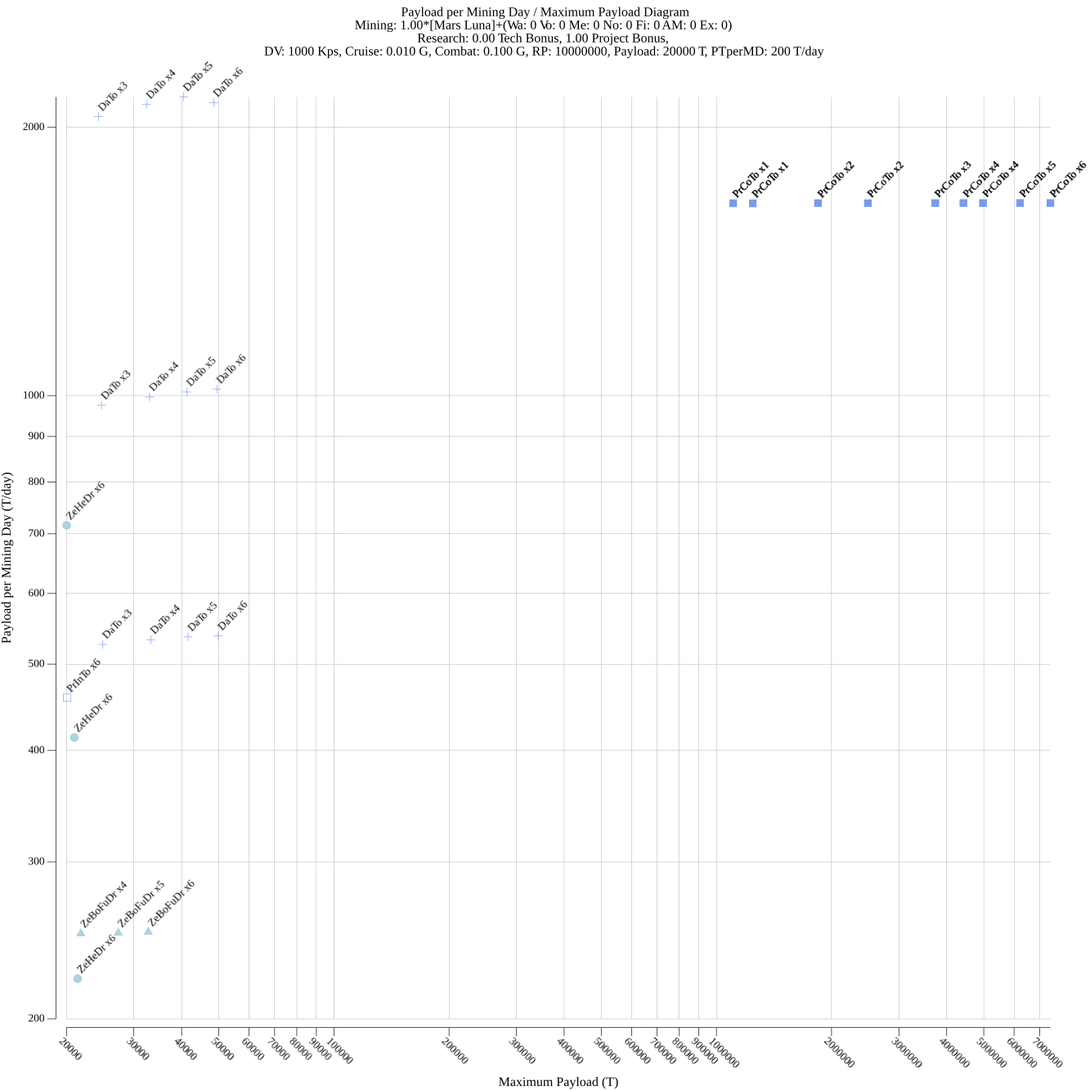
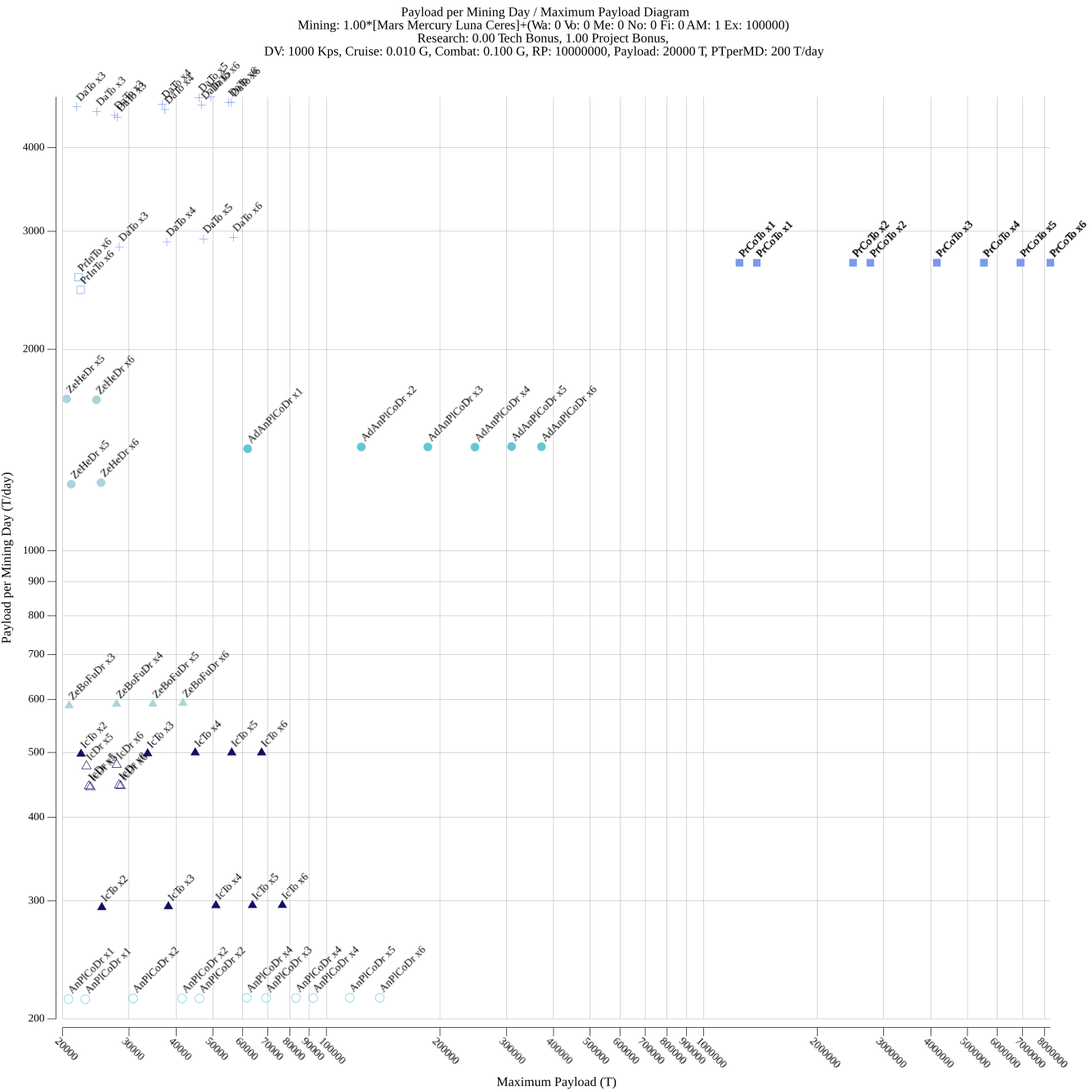
Update readme and example plots.

diff --git a/README.md b/README.md
@@ -101,127 +101,157 @@ from templates alone. This is mostly about mining amounts (need to calcuate `Min
 
 The end result looks like this:
 ```
-$ drive_plot -t /mnt/c/Program\ Files\ \(x86\)/Steam/steamapps/common/Terra\ Invicta/TerraInvicta_Data/StreamingAssets/Templates/ -c examples/drive_plot/interceptor.json --dv 10 --coa 4 --rp 120000 --log -o interceptor.png
-2023/09/01 16:22:39 init started
-2023/09/01 16:22:39 mining amount: Wa: 527 Vo: 333 Me: 433 No: 29 Fi: 35 AM: 0 Ex: 0
-2023/09/01 16:22:39 simulation started
-2023/09/01 16:22:40 AdPuDr x3 CoSoCoFiRe V NaFi - NeSp: Pl 400 T, PTpMD 201 T/day, DV 12 Kps, CrA 0.079 G, CoA 3.152 G
-2023/09/01 16:22:40 AdPuDr x3 CoSoCoFiRe V TiDr - -: Pl 281 T, PTpMD 228 T/day, DV 12 Kps, CrA 0.085 G, CoA 3.385 G
-2023/09/01 16:22:40 AdPuDr x4 CoSoCoFiRe V TiDr - -: Pl 409 T, PTpMD 225 T/day, DV 12 Kps, CrA 0.079 G, CoA 3.144 G
-2023/09/01 16:22:40 AdPuDr x4 CoSoCoFiRe V TiDr SlHyTa -: Pl 399 T, PTpMD 275 T/day, DV 13 Kps, CrA 0.088 G, CoA 3.520 G
-2023/09/01 16:22:40 AdPuDr x5 CoSoCoFiRe V TiDr SlHyTa -: Pl 526 T, PTpMD 291 T/day, DV 11 Kps, CrA 0.090 G, CoA 3.607 G
-2023/09/01 16:22:40 AdPuDr x6 CoSoCoFiRe V TiDr - -: Pl 563 T, PTpMD 235 T/day, DV 12 Kps, CrA 0.085 G, CoA 3.385 G
-2023/09/01 16:22:40 AdPuDr x6 CoSoCoFiRe V TiDr LiHyCo -: Pl 558 T, PTpMD 259 T/day, DV 10 Kps, CrA 0.092 G, CoA 3.667 G
-2023/09/01 16:22:40 FiSpDr x2 MoCoFiRe III NaFi - -: Pl 400 T, PTpMD 324 T/day, DV 11 Kps, CrA 0.169 G, CoA 3.385 G
-2023/09/01 16:22:40 FiSpDr x2 MoCoFiRe III NaFi LiHyCo NeSp: Pl 544 T, PTpMD 286 T/day, DV 12 Kps, CrA 0.158 G, CoA 3.152 G
-2023/09/01 16:22:40 FiSpDr x3 MoCoFiRe III NaFi LiHyCo NeSp: Pl 793 T, PTpMD 319 T/day, DV 12 Kps, CrA 0.170 G, CoA 3.392 G
-2023/09/01 16:22:40 FiSpDr x3 MoCoFiRe III NaFi SlHyTa -: Pl 640 T, PTpMD 504 T/day, DV 11 Kps, CrA 0.178 G, CoA 3.568 G
-2023/09/01 16:22:40 FiSpDr x3 MoCoFiRe III TiDr SlHyTa -: Pl 640 T, PTpMD 495 T/day, DV 11 Kps, CrA 0.178 G, CoA 3.568 G
-2023/09/01 16:22:40 FiSpDr x4 MoCoFiRe III NaFi LiHyCo NeSp: Pl 1041 T, PTpMD 340 T/day, DV 11 Kps, CrA 0.176 G, CoA 3.526 G
-2023/09/01 16:22:40 FiSpDr x4 MoCoFiRe III NaFi SlHyTa -: Pl 792 T, PTpMD 429 T/day, DV 13 Kps, CrA 0.183 G, CoA 3.667 G
-2023/09/01 16:22:40 FiSpDr x4 MoCoFiRe III TiDr SlHyTa -: Pl 792 T, PTpMD 423 T/day, DV 13 Kps, CrA 0.183 G, CoA 3.667 G
-2023/09/01 16:22:40 FiSpDr x5 MoCoFiRe III NaFi LiHyCo NeSp: Pl 1289 T, PTpMD 354 T/day, DV 11 Kps, CrA 0.181 G, CoA 3.611 G
-2023/09/01 16:22:40 FiSpDr x5 MoCoFiRe III NaFi SlHyTa -: Pl 1044 T, PTpMD 565 T/day, DV 10 Kps, CrA 0.186 G, CoA 3.729 G
-2023/09/01 16:22:40 FiSpDr x5 MoCoFiRe III TiDr SlHyTa -: Pl 1044 T, PTpMD 558 T/day, DV 10 Kps, CrA 0.186 G, CoA 3.729 G
-2023/09/01 16:22:40 FiSpDr x6 MoCoFiRe III NaFi LiHyCo NeSp: Pl 1538 T, PTpMD 365 T/day, DV 11 Kps, CrA 0.184 G, CoA 3.671 G
-2023/09/01 16:22:40 FiSpDr x6 MoCoFiRe III NaFi SlHyTa -: Pl 1196 T, PTpMD 493 T/day, DV 11 Kps, CrA 0.189 G, CoA 3.772 G
-2023/09/01 16:22:40 FiSpDr x6 MoCoFiRe III TiDr SlHyTa -: Pl 1196 T, PTpMD 489 T/day, DV 11 Kps, CrA 0.189 G, CoA 3.772 G
-2023/09/01 16:22:40 PeDr x1 MoCoFiRe III NaFi - -: Pl 247 T, PTpMD 375 T/day, DV 11 Kps, CrA 0.200 G, CoA 4.000 G
-2023/09/01 16:22:40 PeDr x1 MoCoFiRe III NaFi - NeSp: Pl 342 T, PTpMD 203 T/day, DV 15 Kps, CrA 0.168 G, CoA 3.365 G
-2023/09/01 16:22:40 PeDr x2 MoCoFiRe III NaFi - NeSp: Pl 730 T, PTpMD 390 T/day, DV 11 Kps, CrA 0.183 G, CoA 3.655 G
-2023/09/01 16:22:40 PeDr x2 MoCoFiRe III NaFi LiHyCo -: Pl 590 T, PTpMD 465 T/day, DV 11 Kps, CrA 0.177 G, CoA 3.548 G
-2023/09/01 16:22:40 PeDr x2 MoCoFiRe III TiDr LiHyCo -: Pl 591 T, PTpMD 457 T/day, DV 11 Kps, CrA 0.177 G, CoA 3.548 G
-2023/09/01 16:22:40 PeDr x3 MoCoFiRe III NaFi - NeSp: Pl 1118 T, PTpMD 457 T/day, DV 10 Kps, CrA 0.188 G, CoA 3.763 G
-2023/09/01 16:22:40 PeDr x3 MoCoFiRe III NaFi SlHyTa -: Pl 936 T, PTpMD 507 T/day, DV 14 Kps, CrA 0.171 G, CoA 3.419 G
-2023/09/01 16:22:40 PeDr x3 MoCoFiRe III TiDr SlHyTa -: Pl 936 T, PTpMD 500 T/day, DV 14 Kps, CrA 0.171 G, CoA 3.419 G
-2023/09/01 16:22:40 PeDr x4 MoCoFiRe III NaFi - NeSp: Pl 1506 T, PTpMD 418 T/day, DV 11 Kps, CrA 0.183 G, CoA 3.655 G
-2023/09/01 16:22:40 PeDr x4 MoCoFiRe III NaFi LiHyCo NeSp: Pl 1499 T, PTpMD 490 T/day, DV 11 Kps, CrA 0.191 G, CoA 3.820 G
-2023/09/01 16:22:40 PeDr x4 MoCoFiRe III NaFi SlHyTa -: Pl 1187 T, PTpMD 642 T/day, DV 11 Kps, CrA 0.188 G, CoA 3.761 G
-2023/09/01 16:22:40 PeDr x4 MoCoFiRe III TiDr SlHyTa -: Pl 1187 T, PTpMD 634 T/day, DV 11 Kps, CrA 0.188 G, CoA 3.761 G
-2023/09/01 16:22:40 PeDr x5 MoCoFiRe III NaFi LiHyCo NeSp: Pl 1887 T, PTpMD 519 T/day, DV 10 Kps, CrA 0.193 G, CoA 3.855 G
-2023/09/01 16:22:40 PeDr x5 MoCoFiRe III NaFi SlHyTa -: Pl 1437 T, PTpMD 593 T/day, DV 12 Kps, CrA 0.190 G, CoA 3.806 G
-2023/09/01 16:22:40 PeDr x5 MoCoFiRe III TiDr SlHyTa -: Pl 1437 T, PTpMD 587 T/day, DV 12 Kps, CrA 0.190 G, CoA 3.806 G
-2023/09/01 16:22:40 PeDr x6 MoCoFiRe III AlFi SlHyTa -: Pl 1779 T, PTpMD 733 T/day, DV 10 Kps, CrA 0.192 G, CoA 3.837 G
-2023/09/01 16:22:40 PeDr x6 MoCoFiRe III NaFi LiHyCo NeSp: Pl 2275 T, PTpMD 540 T/day, DV 10 Kps, CrA 0.194 G, CoA 3.878 G
-2023/09/01 16:22:40 PeDr x6 MoCoFiRe III TiDr SlHyTa -: Pl 1788 T, PTpMD 730 T/day, DV 10 Kps, CrA 0.192 G, CoA 3.837 G
-2023/09/01 16:22:40 AdCaDr x3 GaCoFiRe VI NaFi LiHyCo -: Pl 298 T, PTpMD 234 T/day, DV 11 Kps, CrA 0.167 G, CoA 3.339 G
-2023/09/01 16:22:40 AdCaDr x4 GaCoFiRe III TiDr SlHyTa -: Pl 387 T, PTpMD 299 T/day, DV 11 Kps, CrA 0.174 G, CoA 3.483 G
-2023/09/01 16:22:40 AdCaDr x5 GaCoFiRe VI NaFi LiHyCo -: Pl 466 T, PTpMD 252 T/day, DV 10 Kps, CrA 0.179 G, CoA 3.575 G
-2023/09/01 16:22:40 AdCaDr x6 GaCoFiRe III TiDr SlHyTa -: Pl 536 T, PTpMD 286 T/day, DV 12 Kps, CrA 0.182 G, CoA 3.639 G
-2023/09/01 16:22:40 LiDr x3 GaCoFiRe III TiDr SlHyTa -: Pl 393 T, PTpMD 210 T/day, DV 12 Kps, CrA 0.152 G, CoA 3.031 G
-2023/09/01 16:22:40 LiDr x4 GaCoFiRe III TiDr SlHyTa -: Pl 461 T, PTpMD 247 T/day, DV 11 Kps, CrA 0.179 G, CoA 3.572 G
-2023/09/01 16:22:40 LiDr x5 GaCoFiRe III TiDr SlHyTa -: Pl 529 T, PTpMD 216 T/day, DV 12 Kps, CrA 0.182 G, CoA 3.650 G
-2023/09/01 16:22:40 LiDr x6 GaCoFiRe III TiDr SlHyTa -: Pl 697 T, PTpMD 230 T/day, DV 12 Kps, CrA 0.172 G, CoA 3.449 G
-2023/09/01 16:22:40 PhDr x2 GaCoFiRe VI NaFi LiHyCo -: Pl 272 T, PTpMD 214 T/day, DV 10 Kps, CrA 0.164 G, CoA 3.278 G
-2023/09/01 16:22:40 PhDr x3 GaCoFiRe III TiDr SlHyTa -: Pl 422 T, PTpMD 226 T/day, DV 13 Kps, CrA 0.155 G, CoA 3.092 G
-2023/09/01 16:22:40 PhDr x4 GaCoFiRe III TiDr SlHyTa -: Pl 500 T, PTpMD 267 T/day, DV 11 Kps, CrA 0.180 G, CoA 3.603 G
-2023/09/01 16:22:40 PhDr x5 GaCoFiRe III TiDr SlHyTa -: Pl 577 T, PTpMD 236 T/day, DV 12 Kps, CrA 0.184 G, CoA 3.676 G
-2023/09/01 16:22:40 PhDr x6 GaCoFiRe III TiDr SlHyTa -: Pl 755 T, PTpMD 249 T/day, DV 12 Kps, CrA 0.174 G, CoA 3.488 G
-2023/09/01 16:22:40 FiLa x1 GaCoFiRe VI NaFi LiHyCo -: Pl 2868 T, PTpMD 243 T/day, DV 11 Kps, CrA 0.196 G, CoA 3.930 G
-2023/09/01 16:22:40 FiLa x2 GaCoFiRe VI NaFi LiHyCo -: Pl 5741 T, PTpMD 245 T/day, DV 10 Kps, CrA 0.198 G, CoA 3.965 G
-2023/09/01 16:22:40 FiLa x3 GaCoFiRe VI NaFi LiHyCo -: Pl 8613 T, PTpMD 246 T/day, DV 10 Kps, CrA 0.199 G, CoA 3.976 G
-2023/09/01 16:22:40 FiLa x4 GaCoFiRe VI NaFi LiHyCo -: Pl 11486 T, PTpMD 246 T/day, DV 10 Kps, CrA 0.199 G, CoA 3.982 G
-2023/09/01 16:22:40 FiLa x5 GaCoFiRe VI NaFi LiHyCo -: Pl 14359 T, PTpMD 246 T/day, DV 10 Kps, CrA 0.199 G, CoA 3.986 G
-2023/09/01 16:22:40 FiLa x6 GaCoFiRe VI NaFi LiHyCo -: Pl 17232 T, PTpMD 247 T/day, DV 10 Kps, CrA 0.199 G, CoA 3.988 G
-2023/09/01 16:22:40 BuDr x6 GaCoFiRe VI NaFi - -: Pl 200 T, PTpMD 309 T/day, DV 25 Kps, CrA 0.200 G, CoA 4.000 G
-2023/09/01 16:22:40 FlDr x1 GaCoFiRe VI NaFi - -: Pl 1308 T, PTpMD 450 T/day, DV 11 Kps, CrA 0.189 G, CoA 3.788 G
-2023/09/01 16:22:40 FlDr x2 GaCoFiRe VI NaFi - -: Pl 2621 T, PTpMD 457 T/day, DV 11 Kps, CrA 0.189 G, CoA 3.788 G
-2023/09/01 16:22:40 FlDr x2 GaCoFiRe VI NaFi LiHyCo -: Pl 2614 T, PTpMD 502 T/day, DV 11 Kps, CrA 0.195 G, CoA 3.891 G
-2023/09/01 16:22:40 FlDr x3 GaCoFiRe VI NaFi LiHyCo -: Pl 3927 T, PTpMD 525 T/day, DV 10 Kps, CrA 0.196 G, CoA 3.927 G
-2023/09/01 16:22:40 FlDr x4 GaCoFiRe VI NaFi LiHyCo -: Pl 5239 T, PTpMD 538 T/day, DV 10 Kps, CrA 0.197 G, CoA 3.945 G
-2023/09/01 16:22:40 FlDr x5 GaCoFiRe VI NaFi LiHyCo -: Pl 6551 T, PTpMD 546 T/day, DV 10 Kps, CrA 0.198 G, CoA 3.956 G
-2023/09/01 16:22:40 FlDr x6 GaCoFiRe VI NaFi LiHyCo -: Pl 7864 T, PTpMD 551 T/day, DV 10 Kps, CrA 0.198 G, CoA 3.963 G
-2023/09/01 16:22:40 FiDr x1 GaCoFiRe VI NaFi - -: Pl 1998 T, PTpMD 687 T/day, DV 10 Kps, CrA 0.192 G, CoA 3.849 G
-2023/09/01 16:22:40 FiDr x2 GaCoFiRe VI NaFi LiHyCo -: Pl 3994 T, PTpMD 767 T/day, DV 10 Kps, CrA 0.196 G, CoA 3.923 G
-2023/09/01 16:22:40 FiDr x3 GaCoFiRe VI NaFi LiHyCo -: Pl 5996 T, PTpMD 802 T/day, DV 10 Kps, CrA 0.197 G, CoA 3.948 G
-2023/09/01 16:22:40 FiDr x4 GaCoFiRe VI NaFi LiHyCo -: Pl 7998 T, PTpMD 776 T/day, DV 10 Kps, CrA 0.196 G, CoA 3.923 G
-2023/09/01 16:22:40 FiDr x5 GaCoFiRe VI NaFi LiHyCo -: Pl 9900 T, PTpMD 788 T/day, DV 10 Kps, CrA 0.198 G, CoA 3.969 G
-2023/09/01 16:22:40 FiDr x6 GaCoFiRe VI NaFi LiHyCo -: Pl 11903 T, PTpMD 803 T/day, DV 10 Kps, CrA 0.199 G, CoA 3.974 G
-2023/09/01 16:22:40 drives total: 72
+$ drive_plot -t Templates -c interceptor.json --dv 10 --coa 4 --rp 120000 --log -o interceptor.png
+2023/09/02 11:50:51 init started
+2023/09/02 11:50:51 mining amount: Wa: 527 Vo: 333 Me: 433 No: 29 Fi: 35 AM: 0 Ex: 0
+2023/09/02 11:50:51 simulation started
+2023/09/02 11:50:51 AdPuDr x4 CoSoCoFiRe V TiDr - -: Pl 309 T, PTpMD 216 T/day, DV 10 Kps, CrA 0.100 G, CoA 4.000 G
+2023/09/02 11:50:51 AdPuDr x5 CoSoCoFiRe V TiDr SlHyTa -: Pl 426 T, PTpMD 235 T/day, DV 12 Kps, CrA 0.100 G, CoA 4.000 G
+2023/09/02 11:50:51 AdPuDr x6 CoSoCoFiRe V TiDr - -: Pl 463 T, PTpMD 216 T/day, DV 10 Kps, CrA 0.100 G, CoA 4.000 G
+2023/09/02 11:50:51 FiSpDr x2 MoCoFiRe III NaFi - -: Pl 300 T, PTpMD 243 T/day, DV 13 Kps, CrA 0.200 G, CoA 4.000 G
+2023/09/02 11:50:51 FiSpDr x2 MoCoFiRe III NaFi LiHyCo NeSp: Pl 444 T, PTpMD 241 T/day, DV 10 Kps, CrA 0.200 G, CoA 4.000 G
+2023/09/02 11:50:51 FiSpDr x2 MoCoFiRe III NaFi SlHyTa -: Pl 288 T, PTpMD 416 T/day, DV 11 Kps, CrA 0.244 G, CoA 4.000 G
+2023/09/02 11:50:51 FiSpDr x2 MoCoFiRe III TiDr SlHyTa -: Pl 288 T, PTpMD 403 T/day, DV 11 Kps, CrA 0.244 G, CoA 4.000 G
+2023/09/02 11:50:51 FiSpDr x3 MoCoFiRe III NaFi LiHyCo NeSp: Pl 693 T, PTpMD 363 T/day, DV 10 Kps, CrA 0.200 G, CoA 4.000 G
+2023/09/02 11:50:51 FiSpDr x3 MoCoFiRe III NaFi SlHyTa -: Pl 540 T, PTpMD 425 T/day, DV 12 Kps, CrA 0.200 G, CoA 4.000 G
+2023/09/02 11:50:51 FiSpDr x3 MoCoFiRe III TiDr SlHyTa -: Pl 540 T, PTpMD 418 T/day, DV 12 Kps, CrA 0.200 G, CoA 4.000 G
+2023/09/02 11:50:51 FiSpDr x4 MoCoFiRe III NaFi LiHyCo NeSp: Pl 941 T, PTpMD 379 T/day, DV 10 Kps, CrA 0.200 G, CoA 4.000 G
+2023/09/02 11:50:51 FiSpDr x5 MoCoFiRe III NaFi LiHyCo NeSp: Pl 1189 T, PTpMD 389 T/day, DV 10 Kps, CrA 0.200 G, CoA 4.000 G
+2023/09/02 11:50:51 FiSpDr x5 MoCoFiRe III NaFi SlHyTa -: Pl 944 T, PTpMD 511 T/day, DV 11 Kps, CrA 0.200 G, CoA 4.000 G
+2023/09/02 11:50:51 FiSpDr x5 MoCoFiRe III TiDr SlHyTa -: Pl 944 T, PTpMD 505 T/day, DV 11 Kps, CrA 0.200 G, CoA 4.000 G
+2023/09/02 11:50:51 FiSpDr x6 MoCoFiRe III NaFi LiHyCo NeSp: Pl 1438 T, PTpMD 395 T/day, DV 10 Kps, CrA 0.200 G, CoA 4.000 G
+2023/09/02 11:50:51 FiSpDr x6 MoCoFiRe III NaFi SlHyTa -: Pl 1096 T, PTpMD 452 T/day, DV 12 Kps, CrA 0.200 G, CoA 4.000 G
+2023/09/02 11:50:51 FiSpDr x6 MoCoFiRe III TiDr SlHyTa -: Pl 1096 T, PTpMD 448 T/day, DV 12 Kps, CrA 0.200 G, CoA 4.000 G
+2023/09/02 11:50:51 PeDr x1 MoCoFiRe III NaFi - -: Pl 247 T, PTpMD 375 T/day, DV 11 Kps, CrA 0.200 G, CoA 4.000 G
+2023/09/02 11:50:51 PeDr x2 MoCoFiRe III NaFi - -: Pl 497 T, PTpMD 402 T/day, DV 11 Kps, CrA 0.200 G, CoA 4.000 G
+2023/09/02 11:50:51 PeDr x2 MoCoFiRe III NaFi - NeSp: Pl 630 T, PTpMD 337 T/day, DV 13 Kps, CrA 0.200 G, CoA 4.000 G
+2023/09/02 11:50:51 PeDr x3 MoCoFiRe III AlFi SlHyTa -: Pl 827 T, PTpMD 651 T/day, DV 11 Kps, CrA 0.200 G, CoA 4.000 G
+2023/09/02 11:50:51 PeDr x3 MoCoFiRe III NaFi - NeSp: Pl 1018 T, PTpMD 416 T/day, DV 11 Kps, CrA 0.200 G, CoA 4.000 G
+2023/09/02 11:50:51 PeDr x3 MoCoFiRe III TiDr SlHyTa -: Pl 836 T, PTpMD 646 T/day, DV 11 Kps, CrA 0.200 G, CoA 4.000 G
+2023/09/02 11:50:51 PeDr x4 MoCoFiRe III NaFi - NeSp: Pl 1406 T, PTpMD 465 T/day, DV 10 Kps, CrA 0.200 G, CoA 4.000 G
+2023/09/02 11:50:51 PeDr x4 MoCoFiRe III NaFi SlHyTa -: Pl 1087 T, PTpMD 588 T/day, DV 12 Kps, CrA 0.200 G, CoA 4.000 G
+2023/09/02 11:50:51 PeDr x4 MoCoFiRe III TiDr SlHyTa -: Pl 1087 T, PTpMD 581 T/day, DV 12 Kps, CrA 0.200 G, CoA 4.000 G
+2023/09/02 11:50:51 PeDr x5 MoCoFiRe III AlFi SlHyTa -: Pl 1328 T, PTpMD 719 T/day, DV 10 Kps, CrA 0.211 G, CoA 4.000 G
+2023/09/02 11:50:51 PeDr x5 MoCoFiRe III NaFi LiHyCo NeSp: Pl 1787 T, PTpMD 491 T/day, DV 11 Kps, CrA 0.200 G, CoA 4.000 G
+2023/09/02 11:50:51 PeDr x5 MoCoFiRe III TiDr SlHyTa -: Pl 1337 T, PTpMD 715 T/day, DV 10 Kps, CrA 0.211 G, CoA 4.000 G
+2023/09/02 11:50:51 PeDr x6 MoCoFiRe III AlFi SlHyTa -: Pl 1679 T, PTpMD 692 T/day, DV 11 Kps, CrA 0.200 G, CoA 4.000 G
+2023/09/02 11:50:51 PeDr x6 MoCoFiRe III NaFi LiHyCo NeSp: Pl 2175 T, PTpMD 516 T/day, DV 10 Kps, CrA 0.200 G, CoA 4.000 G
+2023/09/02 11:50:51 PeDr x6 MoCoFiRe III TiDr SlHyTa -: Pl 1688 T, PTpMD 689 T/day, DV 11 Kps, CrA 0.200 G, CoA 4.000 G
+2023/09/02 11:50:51 AdCaDr x4 GaCoFiRe III TiDr SlHyTa -: Pl 287 T, PTpMD 222 T/day, DV 13 Kps, CrA 0.200 G, CoA 4.000 G
+2023/09/02 11:50:51 AdCaDr x5 GaCoFiRe III TiDr SlHyTa -: Pl 311 T, PTpMD 220 T/day, DV 12 Kps, CrA 0.227 G, CoA 4.000 G
+2023/09/02 11:50:51 AdCaDr x5 GaCoFiRe VI NaFi - -: Pl 371 T, PTpMD 205 T/day, DV 11 Kps, CrA 0.200 G, CoA 4.000 G
+2023/09/02 11:50:51 AdCaDr x6 GaCoFiRe III TiDr SlHyTa -: Pl 436 T, PTpMD 233 T/day, DV 13 Kps, CrA 0.200 G, CoA 4.000 G
+2023/09/02 11:50:51 LiDr x3 GaCoFiRe III TiDr SlHyTa -: Pl 293 T, PTpMD 227 T/day, DV 11 Kps, CrA 0.200 G, CoA 4.000 G
+2023/09/02 11:50:51 LiDr x5 GaCoFiRe III TiDr SlHyTa -: Pl 429 T, PTpMD 229 T/day, DV 11 Kps, CrA 0.221 G, CoA 4.000 G
+2023/09/02 11:50:51 LiDr x6 GaCoFiRe III TiDr SlHyTa -: Pl 597 T, PTpMD 244 T/day, DV 11 Kps, CrA 0.200 G, CoA 4.000 G
+2023/09/02 11:50:51 PhDr x3 GaCoFiRe III TiDr SlHyTa -: Pl 322 T, PTpMD 249 T/day, DV 11 Kps, CrA 0.200 G, CoA 4.000 G
+2023/09/02 11:50:51 PhDr x4 GaCoFiRe III TiDr SlHyTa -: Pl 400 T, PTpMD 214 T/day, DV 12 Kps, CrA 0.200 G, CoA 4.000 G
+2023/09/02 11:50:51 PhDr x5 GaCoFiRe III TiDr SlHyTa -: Pl 477 T, PTpMD 255 T/day, DV 10 Kps, CrA 0.219 G, CoA 4.000 G
+2023/09/02 11:50:51 PhDr x6 GaCoFiRe III TiDr SlHyTa -: Pl 655 T, PTpMD 267 T/day, DV 11 Kps, CrA 0.200 G, CoA 4.000 G
+2023/09/02 11:50:51 FiLa x1 GaCoFiRe VI NaFi LiHyCo -: Pl 2768 T, PTpMD 234 T/day, DV 10 Kps, CrA 0.204 G, CoA 4.000 G
+2023/09/02 11:50:51 FiLa x2 GaCoFiRe VI NaFi LiHyCo -: Pl 5641 T, PTpMD 241 T/day, DV 10 Kps, CrA 0.202 G, CoA 4.000 G
+2023/09/02 11:50:51 FiLa x3 GaCoFiRe VI NaFi LiHyCo -: Pl 8513 T, PTpMD 243 T/day, DV 10 Kps, CrA 0.200 G, CoA 4.000 G
+2023/09/02 11:50:51 FiLa x4 GaCoFiRe VI NaFi LiHyCo -: Pl 11386 T, PTpMD 244 T/day, DV 10 Kps, CrA 0.200 G, CoA 4.000 G
+2023/09/02 11:50:51 FiLa x5 GaCoFiRe VI NaFi LiHyCo -: Pl 14259 T, PTpMD 245 T/day, DV 10 Kps, CrA 0.200 G, CoA 4.000 G
+2023/09/02 11:50:51 FiLa x6 GaCoFiRe VI NaFi LiHyCo -: Pl 17132 T, PTpMD 245 T/day, DV 10 Kps, CrA 0.200 G, CoA 4.000 G
+2023/09/02 11:50:51 BuDr x6 GaCoFiRe VI NaFi - -: Pl 200 T, PTpMD 309 T/day, DV 25 Kps, CrA 0.200 G, CoA 4.000 G
+2023/09/02 11:50:51 FlDr x1 GaCoFiRe VI NaFi - -: Pl 1208 T, PTpMD 415 T/day, DV 12 Kps, CrA 0.200 G, CoA 4.000 G
+2023/09/02 11:50:51 FlDr x1 GaCoFiRe VI NaFi LiHyCo -: Pl 1202 T, PTpMD 505 T/day, DV 10 Kps, CrA 0.212 G, CoA 4.000 G
+2023/09/02 11:50:51 FlDr x2 GaCoFiRe VI NaFi - -: Pl 2521 T, PTpMD 487 T/day, DV 10 Kps, CrA 0.200 G, CoA 4.000 G
+2023/09/02 11:50:51 FlDr x2 GaCoFiRe VI NaFi LiHyCo -: Pl 2514 T, PTpMD 542 T/day, DV 10 Kps, CrA 0.206 G, CoA 4.000 G
+2023/09/02 11:50:51 FlDr x3 GaCoFiRe VI NaFi LiHyCo -: Pl 3827 T, PTpMD 512 T/day, DV 11 Kps, CrA 0.200 G, CoA 4.000 G
+2023/09/02 11:50:51 FlDr x4 GaCoFiRe VI NaFi LiHyCo -: Pl 5139 T, PTpMD 528 T/day, DV 10 Kps, CrA 0.200 G, CoA 4.000 G
+2023/09/02 11:50:51 FlDr x5 GaCoFiRe VI NaFi LiHyCo -: Pl 6451 T, PTpMD 538 T/day, DV 10 Kps, CrA 0.200 G, CoA 4.000 G
+2023/09/02 11:50:51 FlDr x6 GaCoFiRe VI NaFi LiHyCo -: Pl 7764 T, PTpMD 544 T/day, DV 10 Kps, CrA 0.200 G, CoA 4.000 G
+2023/09/02 11:50:51 FiDr x1 GaCoFiRe VI NaFi - -: Pl 1898 T, PTpMD 652 T/day, DV 11 Kps, CrA 0.200 G, CoA 4.000 G
+2023/09/02 11:50:51 FiDr x2 GaCoFiRe VI NaFi LiHyCo -: Pl 3894 T, PTpMD 748 T/day, DV 11 Kps, CrA 0.200 G, CoA 4.000 G
+2023/09/02 11:50:51 FiDr x3 GaCoFiRe VI NaFi LiHyCo -: Pl 5896 T, PTpMD 789 T/day, DV 10 Kps, CrA 0.200 G, CoA 4.000 G
+2023/09/02 11:50:51 FiDr x4 GaCoFiRe VI NaFi LiHyCo -: Pl 7898 T, PTpMD 811 T/day, DV 10 Kps, CrA 0.200 G, CoA 4.000 G
+2023/09/02 11:50:51 FiDr x5 GaCoFiRe VI NaFi LiHyCo -: Pl 9800 T, PTpMD 780 T/day, DV 10 Kps, CrA 0.200 G, CoA 4.000 G
+2023/09/02 11:50:51 FiDr x6 GaCoFiRe VI NaFi LiHyCo -: Pl 11803 T, PTpMD 796 T/day, DV 10 Kps, CrA 0.200 G, CoA 4.000 G
+2023/09/02 11:50:51 drives total: 64
 ```
 ![Alt text](examples/drive_plot/interceptor.png)
 
 ```
-$ drive_plot -t /mnt/c/Program\ Files\ \(x86\)/Steam/steamapps/common/Terra\ Invicta/TerraInvicta_Data/StreamingAssets/Templates/ -c examples/drive_plot/interceptor.json --dv 1000 --pl 20000 -coa 0.1 -cra 0.01 --log -o alpha_chad.png
-2023/09/01 16:23:13 init started
-2023/09/01 16:23:13 mining amount: Wa: 527 Vo: 333 Me: 433 No: 29 Fi: 35 AM: 0 Ex: 0
-2023/09/01 16:23:13 simulation started
-2023/09/01 16:23:13 ZeHeDr x6 FlStZ-Fu Reactor TiDr SlHyTa NeSp: Pl 20019 T, PTpMD 715 T/day, DV 1013 Kps, CrA 0.010 G, CoA 0.598 G
-2023/09/01 16:23:13 ZeHeDr x6 FlStZ-Fu Reactor LiSp SlHyTa NeSp: Pl 20966 T, PTpMD 414 T/day, DV 1013 Kps, CrA 0.010 G, CoA 0.598 G
-2023/09/01 16:23:13 ZeHeDr x6 FlStZ-Fu Reactor DuPl SlHyTa NeSp: Pl 21386 T, PTpMD 222 T/day, DV 1013 Kps, CrA 0.010 G, CoA 0.598 G
-2023/09/01 16:23:13 ZeBoFuDr x4 FlStZ-Fu Reactor DuPl SlHyTa NeSp: Pl 21802 T, PTpMD 249 T/day, DV 1003 Kps, CrA 0.010 G, CoA 0.598 G
-2023/09/01 16:23:13 ZeBoFuDr x5 FlStZ-Fu Reactor DuPl SlHyTa NeSp: Pl 27315 T, PTpMD 250 T/day, DV 1003 Kps, CrA 0.010 G, CoA 0.597 G
-2023/09/01 16:23:13 ZeBoFuDr x6 FlStZ-Fu Reactor DuPl SlHyTa NeSp: Pl 32728 T, PTpMD 250 T/day, DV 1002 Kps, CrA 0.010 G, CoA 0.599 G
-2023/09/01 16:23:13 DaTo x3 InCoFuRe VII TiDr SlHyTa NeSp: Pl 24244 T, PTpMD 2056 T/day, DV 1044 Kps, CrA 0.010 G, CoA 0.598 G
-2023/09/01 16:23:13 DaTo x3 InCoFuRe VII LiSp SlHyTa NeSp: Pl 24693 T, PTpMD 976 T/day, DV 1044 Kps, CrA 0.010 G, CoA 0.598 G
-2023/09/01 16:23:13 DaTo x3 InCoFuRe VII DuPl SlHyTa NeSp: Pl 24893 T, PTpMD 526 T/day, DV 1044 Kps, CrA 0.010 G, CoA 0.598 G
-2023/09/01 16:23:13 DaTo x4 InCoFuRe VII TiDr SlHyTa NeSp: Pl 32375 T, PTpMD 2122 T/day, DV 1018 Kps, CrA 0.010 G, CoA 0.598 G
-2023/09/01 16:23:13 DaTo x4 InCoFuRe VII LiSp SlHyTa NeSp: Pl 32974 T, PTpMD 997 T/day, DV 1018 Kps, CrA 0.010 G, CoA 0.598 G
-2023/09/01 16:23:13 DaTo x4 InCoFuRe VII DuPl SlHyTa NeSp: Pl 33241 T, PTpMD 532 T/day, DV 1018 Kps, CrA 0.010 G, CoA 0.598 G
-2023/09/01 16:23:13 DaTo x5 InCoFuRe VII TiDr SlHyTa NeSp: Pl 40507 T, PTpMD 2164 T/day, DV 1002 Kps, CrA 0.010 G, CoA 0.599 G
-2023/09/01 16:23:13 DaTo x5 InCoFuRe VII LiSp SlHyTa NeSp: Pl 41255 T, PTpMD 1010 T/day, DV 1002 Kps, CrA 0.010 G, CoA 0.599 G
-2023/09/01 16:23:13 DaTo x5 InCoFuRe VII DuPl SlHyTa NeSp: Pl 41588 T, PTpMD 536 T/day, DV 1002 Kps, CrA 0.010 G, CoA 0.599 G
-2023/09/01 16:23:13 DaTo x6 InCoFuRe VII TiDr SlHyTa NeSp: Pl 48538 T, PTpMD 2132 T/day, DV 1019 Kps, CrA 0.010 G, CoA 0.599 G
-2023/09/01 16:23:13 DaTo x6 InCoFuRe VII LiSp SlHyTa NeSp: Pl 49437 T, PTpMD 1017 T/day, DV 1019 Kps, CrA 0.010 G, CoA 0.599 G
-2023/09/01 16:23:13 DaTo x6 InCoFuRe VII DuPl SlHyTa NeSp: Pl 49836 T, PTpMD 538 T/day, DV 1019 Kps, CrA 0.010 G, CoA 0.599 G
-2023/09/01 16:23:13 PrInTo x6 InCoFuRe VII DuPl - NeSp: Pl 20074 T, PTpMD 458 T/day, DV 1014 Kps, CrA 0.010 G, CoA 0.597 G
-2023/09/01 16:23:13 PrCoTo x1 InCoFuRe VII NaFi - MuSp: Pl 1106191 T, PTpMD 1644 T/day, DV 1000 Kps, CrA 0.010 G, CoA 0.600 G
-2023/09/01 16:23:13 PrCoTo x1 InCoFuRe VII NaFi - NeSp: Pl 1244548 T, PTpMD 1644 T/day, DV 1001 Kps, CrA 0.010 G, CoA 0.600 G
-2023/09/01 16:23:13 PrCoTo x1 InCoFuRe VII DuPl - MuSp: Pl 1106196 T, PTpMD 1644 T/day, DV 1000 Kps, CrA 0.010 G, CoA 0.600 G
-2023/09/01 16:23:13 PrCoTo x1 InCoFuRe VII DuPl - NeSp: Pl 1244553 T, PTpMD 1644 T/day, DV 1001 Kps, CrA 0.010 G, CoA 0.600 G
-2023/09/01 16:23:13 PrCoTo x2 InCoFuRe VII NaFi - -: Pl 1843385 T, PTpMD 1644 T/day, DV 1000 Kps, CrA 0.010 G, CoA 0.600 G
-2023/09/01 16:23:13 PrCoTo x2 InCoFuRe VII NaFi - NeSp: Pl 2489145 T, PTpMD 1644 T/day, DV 1000 Kps, CrA 0.010 G, CoA 0.600 G
-2023/09/01 16:23:13 PrCoTo x2 InCoFuRe VII DuPl - -: Pl 1843389 T, PTpMD 1644 T/day, DV 1000 Kps, CrA 0.010 G, CoA 0.600 G
-2023/09/01 16:23:13 PrCoTo x2 InCoFuRe VII DuPl - NeSp: Pl 2489150 T, PTpMD 1644 T/day, DV 1000 Kps, CrA 0.010 G, CoA 0.600 G
-2023/09/01 16:23:13 PrCoTo x3 InCoFuRe VII NaFi - NeSp: Pl 3733741 T, PTpMD 1645 T/day, DV 1000 Kps, CrA 0.010 G, CoA 0.600 G
-2023/09/01 16:23:13 PrCoTo x3 InCoFuRe VII DuPl - NeSp: Pl 3733746 T, PTpMD 1645 T/day, DV 1000 Kps, CrA 0.010 G, CoA 0.600 G
-2023/09/01 16:23:13 PrCoTo x4 InCoFuRe VII NaFi - MuSp: Pl 4424808 T, PTpMD 1645 T/day, DV 1000 Kps, CrA 0.010 G, CoA 0.600 G
-2023/09/01 16:23:13 PrCoTo x4 InCoFuRe VII NaFi - NeSp: Pl 4978338 T, PTpMD 1645 T/day, DV 1000 Kps, CrA 0.010 G, CoA 0.600 G
-2023/09/01 16:23:13 PrCoTo x4 InCoFuRe VII DuPl - MuSp: Pl 4424813 T, PTpMD 1645 T/day, DV 1000 Kps, CrA 0.010 G, CoA 0.600 G
-2023/09/01 16:23:13 PrCoTo x4 InCoFuRe VII DuPl - NeSp: Pl 4978343 T, PTpMD 1645 T/day, DV 1000 Kps, CrA 0.010 G, CoA 0.600 G
-2023/09/01 16:23:13 PrCoTo x5 InCoFuRe VII NaFi - NeSp: Pl 6222934 T, PTpMD 1645 T/day, DV 1000 Kps, CrA 0.010 G, CoA 0.600 G
-2023/09/01 16:23:13 PrCoTo x5 InCoFuRe VII DuPl - NeSp: Pl 6222939 T, PTpMD 1645 T/day, DV 1000 Kps, CrA 0.010 G, CoA 0.600 G
-2023/09/01 16:23:13 PrCoTo x6 InCoFuRe VII NaFi - NeSp: Pl 7467531 T, PTpMD 1645 T/day, DV 1000 Kps, CrA 0.010 G, CoA 0.600 G
-2023/09/01 16:23:13 PrCoTo x6 InCoFuRe VII DuPl - NeSp: Pl 7467536 T, PTpMD 1645 T/day, DV 1000 Kps, CrA 0.010 G, CoA 0.600 G
+$ drive_plot -t Templates -c alpha_chad.json --dv 1000 --pl 20000 -coa 0.1 -cra 0.01 --log -o alpha_chad.png
+2023/09/02 11:52:17 init started
+2023/09/02 11:52:17 mining amount: Wa: 863 Vo: 485 Me: 864 No: 118 Fi: 41 AM: 1 Ex: 100000
+2023/09/02 11:52:17 simulation started
+2023/09/02 11:52:18 IcDr x5 HyCoFuRe III LiSp HyTr AnSp: Pl 23128 T, PTpMD 477 T/day, DV 1005 Kps, CrA 0.010 G, CoA 0.600 G
+2023/09/02 11:52:18 IcDr x5 HyCoFuRe III DuPl HyTr AnSp: Pl 23476 T, PTpMD 445 T/day, DV 1005 Kps, CrA 0.010 G, CoA 0.600 G
+2023/09/02 11:52:18 IcDr x5 HyCoFuRe III ExSp HyTr AnSp: Pl 23702 T, PTpMD 444 T/day, DV 1005 Kps, CrA 0.010 G, CoA 0.600 G
+2023/09/02 11:52:18 IcDr x6 HyCoFuRe III LiSp HyTr AnSp: Pl 27806 T, PTpMD 479 T/day, DV 1002 Kps, CrA 0.010 G, CoA 0.600 G
+2023/09/02 11:52:18 IcDr x6 HyCoFuRe III DuPl HyTr AnSp: Pl 28224 T, PTpMD 447 T/day, DV 1002 Kps, CrA 0.010 G, CoA 0.600 G
+2023/09/02 11:52:18 IcDr x6 HyCoFuRe III ExSp HyTr AnSp: Pl 28495 T, PTpMD 445 T/day, DV 1002 Kps, CrA 0.010 G, CoA 0.600 G
+2023/09/02 11:52:18 IcTo x2 HyCoFuRe III TiDr HyTr AnSp: Pl 22374 T, PTpMD 497 T/day, DV 1013 Kps, CrA 0.010 G, CoA 0.600 G
+2023/09/02 11:52:18 IcTo x2 HyCoFuRe III LiSp HyTr AnSp: Pl 25399 T, PTpMD 293 T/day, DV 1013 Kps, CrA 0.010 G, CoA 0.600 G
+2023/09/02 11:52:18 IcTo x3 HyCoFuRe III TiDr HyTr AnSp: Pl 33591 T, PTpMD 498 T/day, DV 1013 Kps, CrA 0.010 G, CoA 0.600 G
+2023/09/02 11:52:18 IcTo x3 HyCoFuRe III LiSp HyTr AnSp: Pl 38129 T, PTpMD 294 T/day, DV 1013 Kps, CrA 0.010 G, CoA 0.600 G
+2023/09/02 11:52:18 IcTo x4 HyCoFuRe III TiDr HyTr AnSp: Pl 44908 T, PTpMD 500 T/day, DV 1001 Kps, CrA 0.010 G, CoA 0.600 G
+2023/09/02 11:52:18 IcTo x4 HyCoFuRe III LiSp HyTr AnSp: Pl 50959 T, PTpMD 295 T/day, DV 1001 Kps, CrA 0.010 G, CoA 0.600 G
+2023/09/02 11:52:18 IcTo x5 HyCoFuRe III TiDr HyTr AnSp: Pl 56125 T, PTpMD 500 T/day, DV 1003 Kps, CrA 0.010 G, CoA 0.600 G
+2023/09/02 11:52:18 IcTo x5 HyCoFuRe III LiSp HyTr AnSp: Pl 63688 T, PTpMD 296 T/day, DV 1003 Kps, CrA 0.010 G, CoA 0.600 G
+2023/09/02 11:52:18 IcTo x6 HyCoFuRe III TiDr HyTr AnSp: Pl 67342 T, PTpMD 500 T/day, DV 1005 Kps, CrA 0.010 G, CoA 0.600 G
+2023/09/02 11:52:18 IcTo x6 HyCoFuRe III LiSp HyTr AnSp: Pl 76418 T, PTpMD 296 T/day, DV 1005 Kps, CrA 0.010 G, CoA 0.600 G
+2023/09/02 11:52:18 ZeHeDr x5 FlStZ-Fu Reactor LiSp HyTr AnSp: Pl 20494 T, PTpMD 1686 T/day, DV 1013 Kps, CrA 0.010 G, CoA 0.600 G
+2023/09/02 11:52:18 ZeHeDr x5 FlStZ-Fu Reactor ExSp HyTr AnSp: Pl 21072 T, PTpMD 1257 T/day, DV 1013 Kps, CrA 0.010 G, CoA 0.600 G
+2023/09/02 11:52:18 ZeHeDr x6 FlStZ-Fu Reactor LiSp HyTr AnSp: Pl 24584 T, PTpMD 1681 T/day, DV 1018 Kps, CrA 0.010 G, CoA 0.600 G
+2023/09/02 11:52:18 ZeHeDr x6 FlStZ-Fu Reactor ExSp HyTr AnSp: Pl 25278 T, PTpMD 1264 T/day, DV 1018 Kps, CrA 0.010 G, CoA 0.600 G
+2023/09/02 11:52:18 ZeBoFuDr x3 FlStZ-Fu Reactor ExSp HyTr AnSp: Pl 20808 T, PTpMD 587 T/day, DV 1005 Kps, CrA 0.010 G, CoA 0.600 G
+2023/09/02 11:52:18 ZeBoFuDr x4 FlStZ-Fu Reactor ExSp HyTr AnSp: Pl 27797 T, PTpMD 591 T/day, DV 1001 Kps, CrA 0.010 G, CoA 0.600 G
+2023/09/02 11:52:18 ZeBoFuDr x5 FlStZ-Fu Reactor ExSp HyTr AnSp: Pl 34686 T, PTpMD 591 T/day, DV 1002 Kps, CrA 0.010 G, CoA 0.601 G
+2023/09/02 11:52:18 ZeBoFuDr x6 FlStZ-Fu Reactor ExSp HyTr AnSp: Pl 41675 T, PTpMD 592 T/day, DV 1000 Kps, CrA 0.010 G, CoA 0.601 G
+2023/09/02 11:52:18 DaTo x3 InCoFuRe VII TiDr HyTr MuSp: Pl 21792 T, PTpMD 4604 T/day, DV 1011 Kps, CrA 0.010 G, CoA 0.600 G
+2023/09/02 11:52:18 DaTo x3 InCoFuRe VII TiDr HyTr NeSp: Pl 24634 T, PTpMD 4529 T/day, DV 1038 Kps, CrA 0.010 G, CoA 0.600 G
+2023/09/02 11:52:18 DaTo x3 InCoFuRe VII TiDr HyTr AnSp: Pl 27476 T, PTpMD 4472 T/day, DV 1059 Kps, CrA 0.010 G, CoA 0.600 G
+2023/09/02 11:52:18 DaTo x3 InCoFuRe VII LiSp HyTr AnSp: Pl 27926 T, PTpMD 4442 T/day, DV 1059 Kps, CrA 0.010 G, CoA 0.600 G
+2023/09/02 11:52:18 DaTo x3 InCoFuRe VII ExSp HyTr AnSp: Pl 28255 T, PTpMD 2843 T/day, DV 1059 Kps, CrA 0.010 G, CoA 0.600 G
+2023/09/02 11:52:18 DaTo x4 InCoFuRe VII TiDr HyTr AnSp: Pl 36722 T, PTpMD 4644 T/day, DV 1027 Kps, CrA 0.010 G, CoA 0.600 G
+2023/09/02 11:52:18 DaTo x4 InCoFuRe VII LiSp HyTr AnSp: Pl 37321 T, PTpMD 4560 T/day, DV 1027 Kps, CrA 0.010 G, CoA 0.600 G
+2023/09/02 11:52:18 DaTo x4 InCoFuRe VII ExSp HyTr AnSp: Pl 37760 T, PTpMD 2892 T/day, DV 1027 Kps, CrA 0.010 G, CoA 0.600 G
+2023/09/02 11:52:18 DaTo x5 InCoFuRe VII TiDr HyTr AnSp: Pl 45967 T, PTpMD 4753 T/day, DV 1008 Kps, CrA 0.010 G, CoA 0.600 G
+2023/09/02 11:52:18 DaTo x5 InCoFuRe VII LiSp HyTr AnSp: Pl 46716 T, PTpMD 4633 T/day, DV 1008 Kps, CrA 0.010 G, CoA 0.600 G
+2023/09/02 11:52:18 DaTo x5 InCoFuRe VII ExSp HyTr AnSp: Pl 47265 T, PTpMD 2923 T/day, DV 1008 Kps, CrA 0.010 G, CoA 0.600 G
+2023/09/02 11:52:18 DaTo x6 InCoFuRe VII TiDr HyTr NeSp: Pl 49428 T, PTpMD 4763 T/day, DV 1002 Kps, CrA 0.010 G, CoA 0.600 G
+2023/09/02 11:52:18 DaTo x6 InCoFuRe VII TiDr HyTr AnSp: Pl 55113 T, PTpMD 4675 T/day, DV 1027 Kps, CrA 0.010 G, CoA 0.600 G
+2023/09/02 11:52:18 DaTo x6 InCoFuRe VII LiSp HyTr AnSp: Pl 56011 T, PTpMD 4675 T/day, DV 1027 Kps, CrA 0.010 G, CoA 0.600 G
+2023/09/02 11:52:18 DaTo x6 InCoFuRe VII ExSp HyTr AnSp: Pl 56670 T, PTpMD 2938 T/day, DV 1027 Kps, CrA 0.010 G, CoA 0.600 G
+2023/09/02 11:52:18 PrInTo x6 InCoFuRe VII LiSp - AnSp: Pl 22013 T, PTpMD 2562 T/day, DV 1003 Kps, CrA 0.010 G, CoA 0.602 G
+2023/09/02 11:52:18 PrInTo x6 InCoFuRe VII ExSp - AnSp: Pl 22319 T, PTpMD 2453 T/day, DV 1003 Kps, CrA 0.010 G, CoA 0.602 G
+2023/09/02 11:52:18 PrCoTo x1 InCoFuRe VII NaFi - NeSp: Pl 1244448 T, PTpMD 2693 T/day, DV 1000 Kps, CrA 0.010 G, CoA 0.600 G
+2023/09/02 11:52:18 PrCoTo x1 InCoFuRe VII NaFi - AnSp: Pl 1382906 T, PTpMD 2692 T/day, DV 1000 Kps, CrA 0.010 G, CoA 0.600 G
+2023/09/02 11:52:18 PrCoTo x1 InCoFuRe VII ExSp - NeSp: Pl 1244454 T, PTpMD 2693 T/day, DV 1000 Kps, CrA 0.010 G, CoA 0.600 G
+2023/09/02 11:52:18 PrCoTo x1 InCoFuRe VII ExSp - AnSp: Pl 1382912 T, PTpMD 2692 T/day, DV 1000 Kps, CrA 0.010 G, CoA 0.600 G
+2023/09/02 11:52:18 PrCoTo x2 InCoFuRe VII NaFi - NeSp: Pl 2489045 T, PTpMD 2693 T/day, DV 1000 Kps, CrA 0.010 G, CoA 0.600 G
+2023/09/02 11:52:18 PrCoTo x2 InCoFuRe VII NaFi - AnSp: Pl 2765860 T, PTpMD 2693 T/day, DV 1000 Kps, CrA 0.010 G, CoA 0.600 G
+2023/09/02 11:52:18 PrCoTo x2 InCoFuRe VII ExSp - NeSp: Pl 2489051 T, PTpMD 2693 T/day, DV 1000 Kps, CrA 0.010 G, CoA 0.600 G
+2023/09/02 11:52:18 PrCoTo x2 InCoFuRe VII ExSp - AnSp: Pl 2765865 T, PTpMD 2693 T/day, DV 1000 Kps, CrA 0.010 G, CoA 0.600 G
+2023/09/02 11:52:18 PrCoTo x3 InCoFuRe VII NaFi - AnSp: Pl 4148914 T, PTpMD 2693 T/day, DV 1000 Kps, CrA 0.010 G, CoA 0.600 G
+2023/09/02 11:52:18 PrCoTo x3 InCoFuRe VII ExSp - AnSp: Pl 4148919 T, PTpMD 2693 T/day, DV 1000 Kps, CrA 0.010 G, CoA 0.600 G
+2023/09/02 11:52:18 PrCoTo x4 InCoFuRe VII NaFi - AnSp: Pl 5531868 T, PTpMD 2693 T/day, DV 1000 Kps, CrA 0.010 G, CoA 0.600 G
+2023/09/02 11:52:18 PrCoTo x4 InCoFuRe VII ExSp - AnSp: Pl 5531873 T, PTpMD 2693 T/day, DV 1000 Kps, CrA 0.010 G, CoA 0.600 G
+2023/09/02 11:52:18 PrCoTo x5 InCoFuRe VII NaFi - AnSp: Pl 6914921 T, PTpMD 2694 T/day, DV 1000 Kps, CrA 0.010 G, CoA 0.600 G
+2023/09/02 11:52:18 PrCoTo x5 InCoFuRe VII ExSp - AnSp: Pl 6914927 T, PTpMD 2694 T/day, DV 1000 Kps, CrA 0.010 G, CoA 0.600 G
+2023/09/02 11:52:18 PrCoTo x6 InCoFuRe VII NaFi - AnSp: Pl 8297875 T, PTpMD 2693 T/day, DV 1000 Kps, CrA 0.010 G, CoA 0.600 G
+2023/09/02 11:52:18 PrCoTo x6 InCoFuRe VII ExSp - AnSp: Pl 8297881 T, PTpMD 2693 T/day, DV 1000 Kps, CrA 0.010 G, CoA 0.600 G
+2023/09/02 11:52:18 AnPlCoDr x1 AnPlCoRe III ExSp HyTr NeSp: Pl 20713 T, PTpMD 214 T/day, DV 1001 Kps, CrA 0.010 G, CoA 0.600 G
+2023/09/02 11:52:18 AnPlCoDr x1 AnPlCoRe III ExSp HyTr AnSp: Pl 22967 T, PTpMD 214 T/day, DV 1001 Kps, CrA 0.010 G, CoA 0.601 G
+2023/09/02 11:52:18 AnPlCoDr x2 AnPlCoRe III ExSp HyTr -: Pl 30747 T, PTpMD 215 T/day, DV 1001 Kps, CrA 0.010 G, CoA 0.600 G
+2023/09/02 11:52:18 AnPlCoDr x2 AnPlCoRe III ExSp HyTr NeSp: Pl 41490 T, PTpMD 214 T/day, DV 1001 Kps, CrA 0.010 G, CoA 0.600 G
+2023/09/02 11:52:18 AnPlCoDr x2 AnPlCoRe III ExSp HyTr AnSp: Pl 46097 T, PTpMD 214 T/day, DV 1001 Kps, CrA 0.010 G, CoA 0.600 G
+2023/09/02 11:52:18 AnPlCoDr x3 AnPlCoRe III ExSp HyTr AnSp: Pl 69227 T, PTpMD 215 T/day, DV 1000 Kps, CrA 0.010 G, CoA 0.600 G
+2023/09/02 11:52:18 AnPlCoDr x4 AnPlCoRe III ExSp HyTr -: Pl 61517 T, PTpMD 215 T/day, DV 1000 Kps, CrA 0.010 G, CoA 0.600 G
+2023/09/02 11:52:18 AnPlCoDr x4 AnPlCoRe III ExSp HyTr NeSp: Pl 83042 T, PTpMD 215 T/day, DV 1000 Kps, CrA 0.010 G, CoA 0.600 G
+2023/09/02 11:52:18 AnPlCoDr x4 AnPlCoRe III ExSp HyTr AnSp: Pl 92256 T, PTpMD 215 T/day, DV 1000 Kps, CrA 0.010 G, CoA 0.600 G
+2023/09/02 11:52:18 AnPlCoDr x5 AnPlCoRe III ExSp HyTr AnSp: Pl 115386 T, PTpMD 215 T/day, DV 1000 Kps, CrA 0.010 G, CoA 0.600 G
+2023/09/02 11:52:18 AnPlCoDr x6 AnPlCoRe III ExSp HyTr AnSp: Pl 138516 T, PTpMD 215 T/day, DV 1000 Kps, CrA 0.010 G, CoA 0.600 G
+2023/09/02 11:52:18 AdAnPlCoDr x1 AnPlCoRe III ExSp HyTr AnSp: Pl 61839 T, PTpMD 1420 T/day, DV 1004 Kps, CrA 0.010 G, CoA 0.600 G
+2023/09/02 11:52:18 AdAnPlCoDr x2 AnPlCoRe III ExSp HyTr AnSp: Pl 123738 T, PTpMD 1429 T/day, DV 1000 Kps, CrA 0.010 G, CoA 0.600 G
+2023/09/02 11:52:18 AdAnPlCoDr x3 AnPlCoRe III ExSp HyTr AnSp: Pl 185736 T, PTpMD 1429 T/day, DV 1001 Kps, CrA 0.010 G, CoA 0.600 G
+2023/09/02 11:52:18 AdAnPlCoDr x4 AnPlCoRe III ExSp HyTr AnSp: Pl 247635 T, PTpMD 1429 T/day, DV 1002 Kps, CrA 0.010 G, CoA 0.600 G
+2023/09/02 11:52:18 AdAnPlCoDr x5 AnPlCoRe III ExSp HyTr AnSp: Pl 309634 T, PTpMD 1431 T/day, DV 1000 Kps, CrA 0.010 G, CoA 0.600 G
+2023/09/02 11:52:18 AdAnPlCoDr x6 AnPlCoRe III ExSp HyTr AnSp: Pl 371533 T, PTpMD 1430 T/day, DV 1001 Kps, CrA 0.010 G, CoA 0.600 G
+2023/09/02 11:52:18 drives total: 74
 ```
 ![Alt text](examples/drive_plot/alpha_chad.png)
